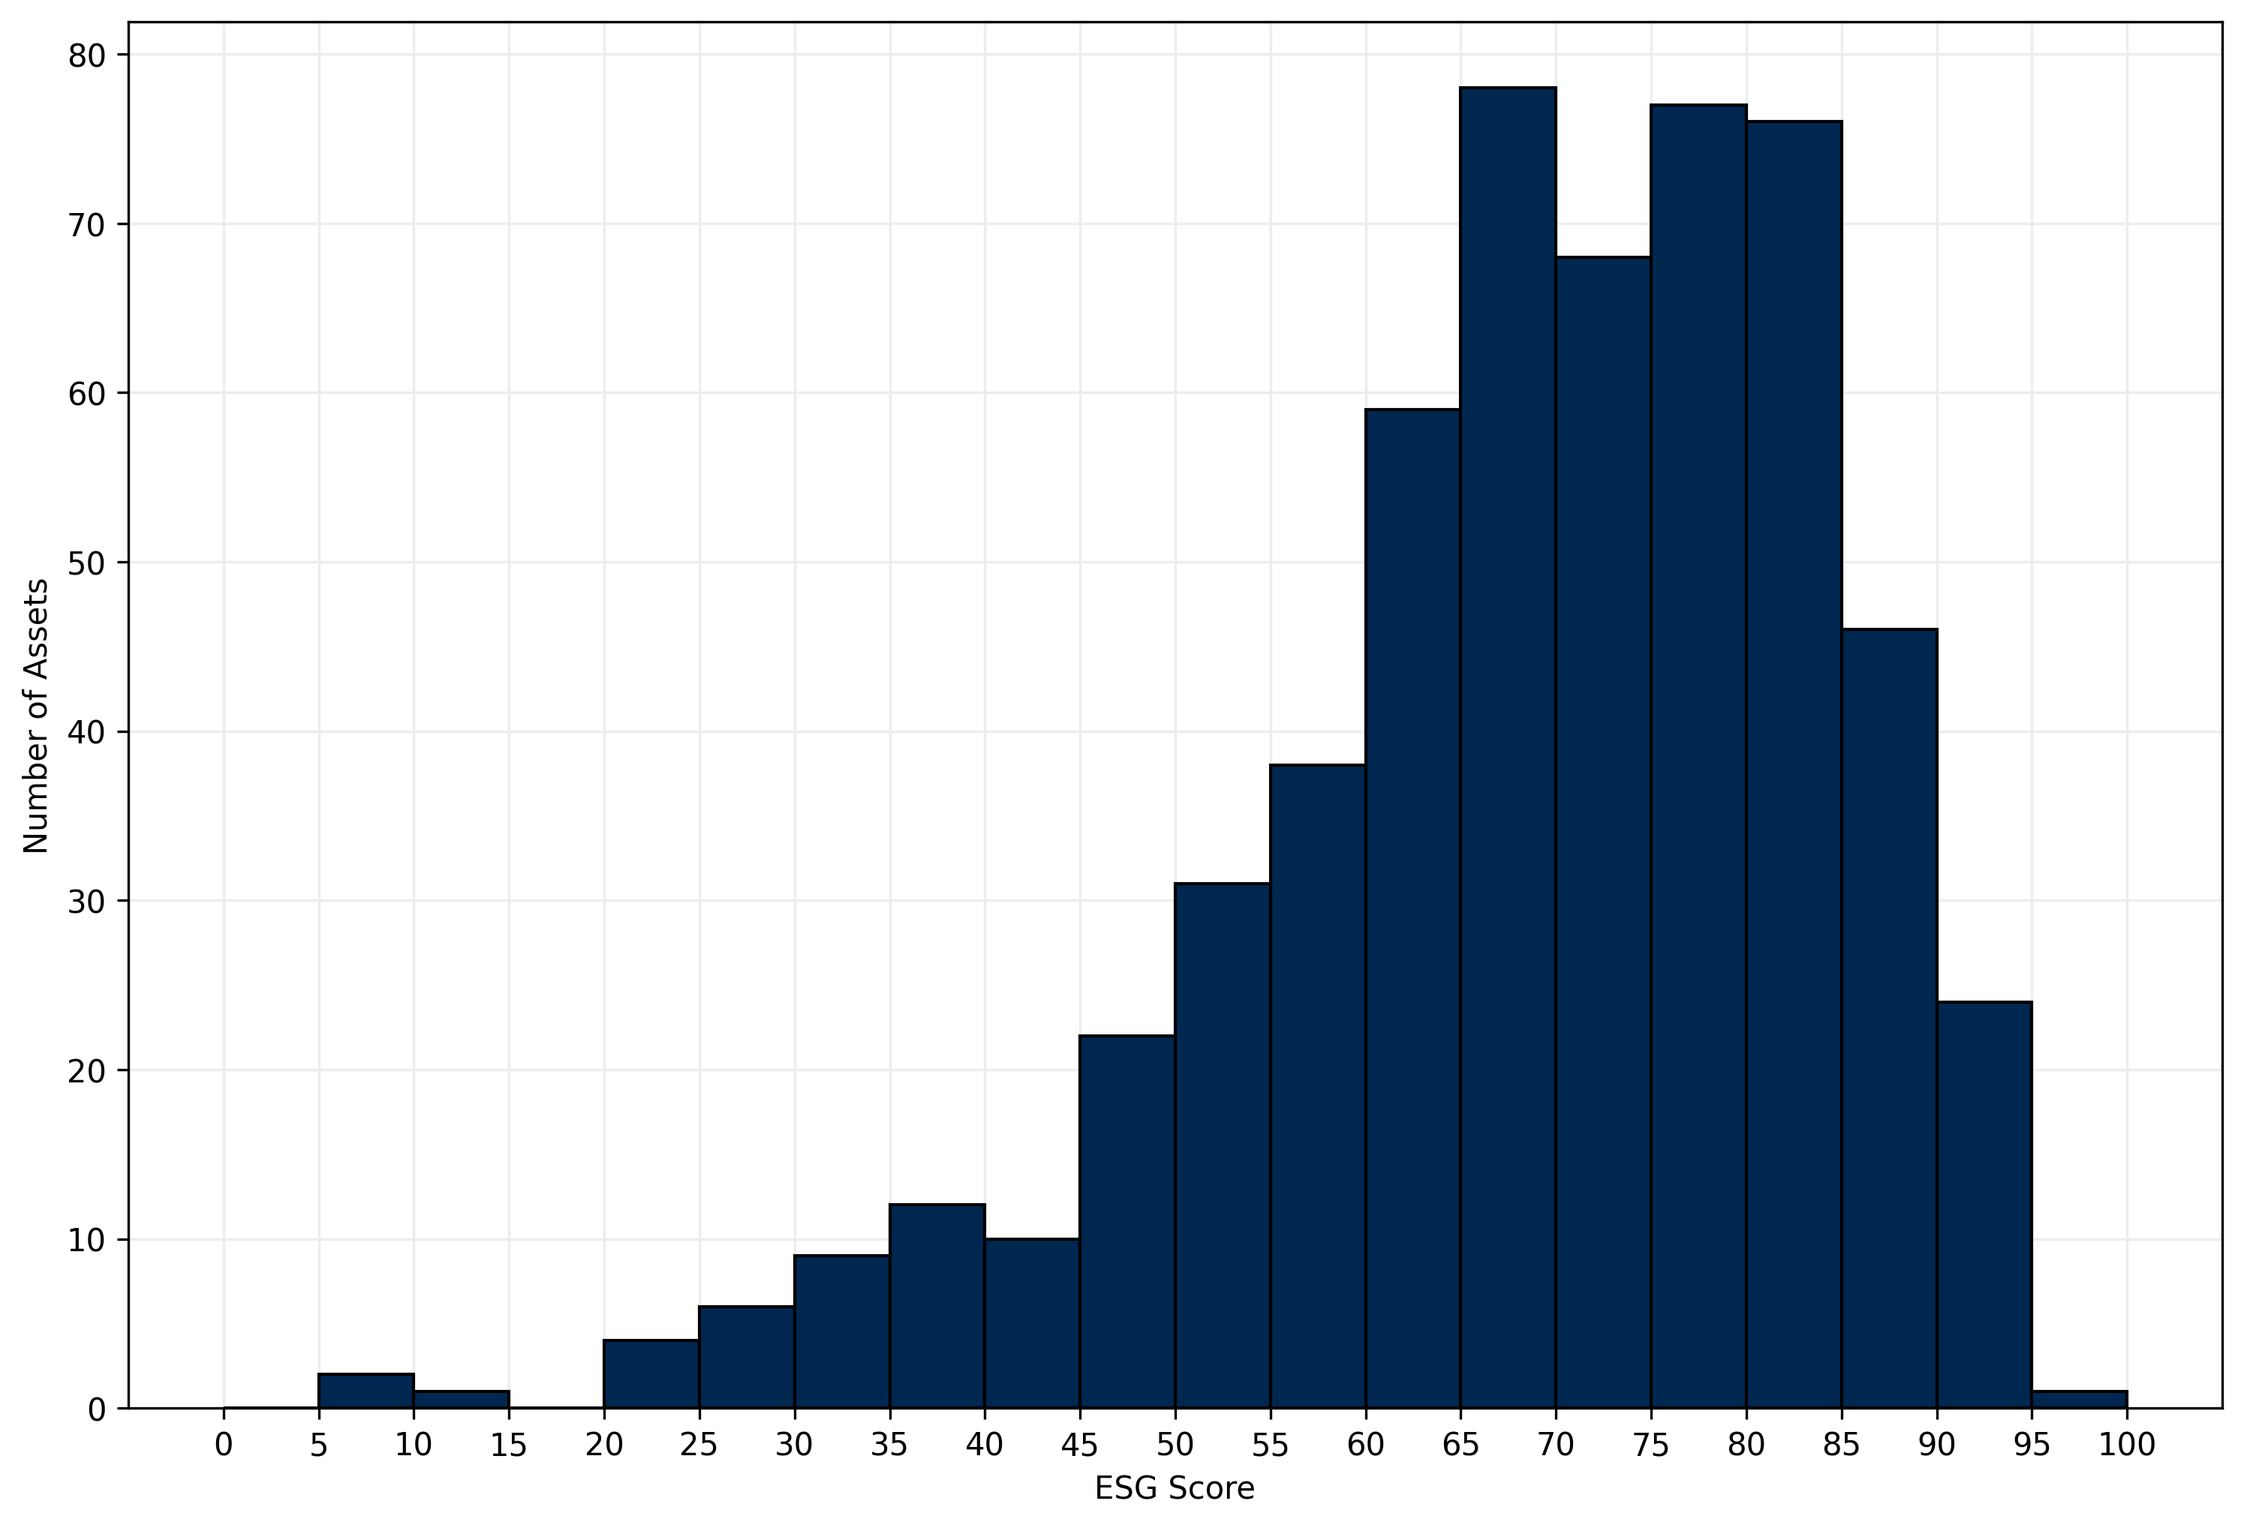
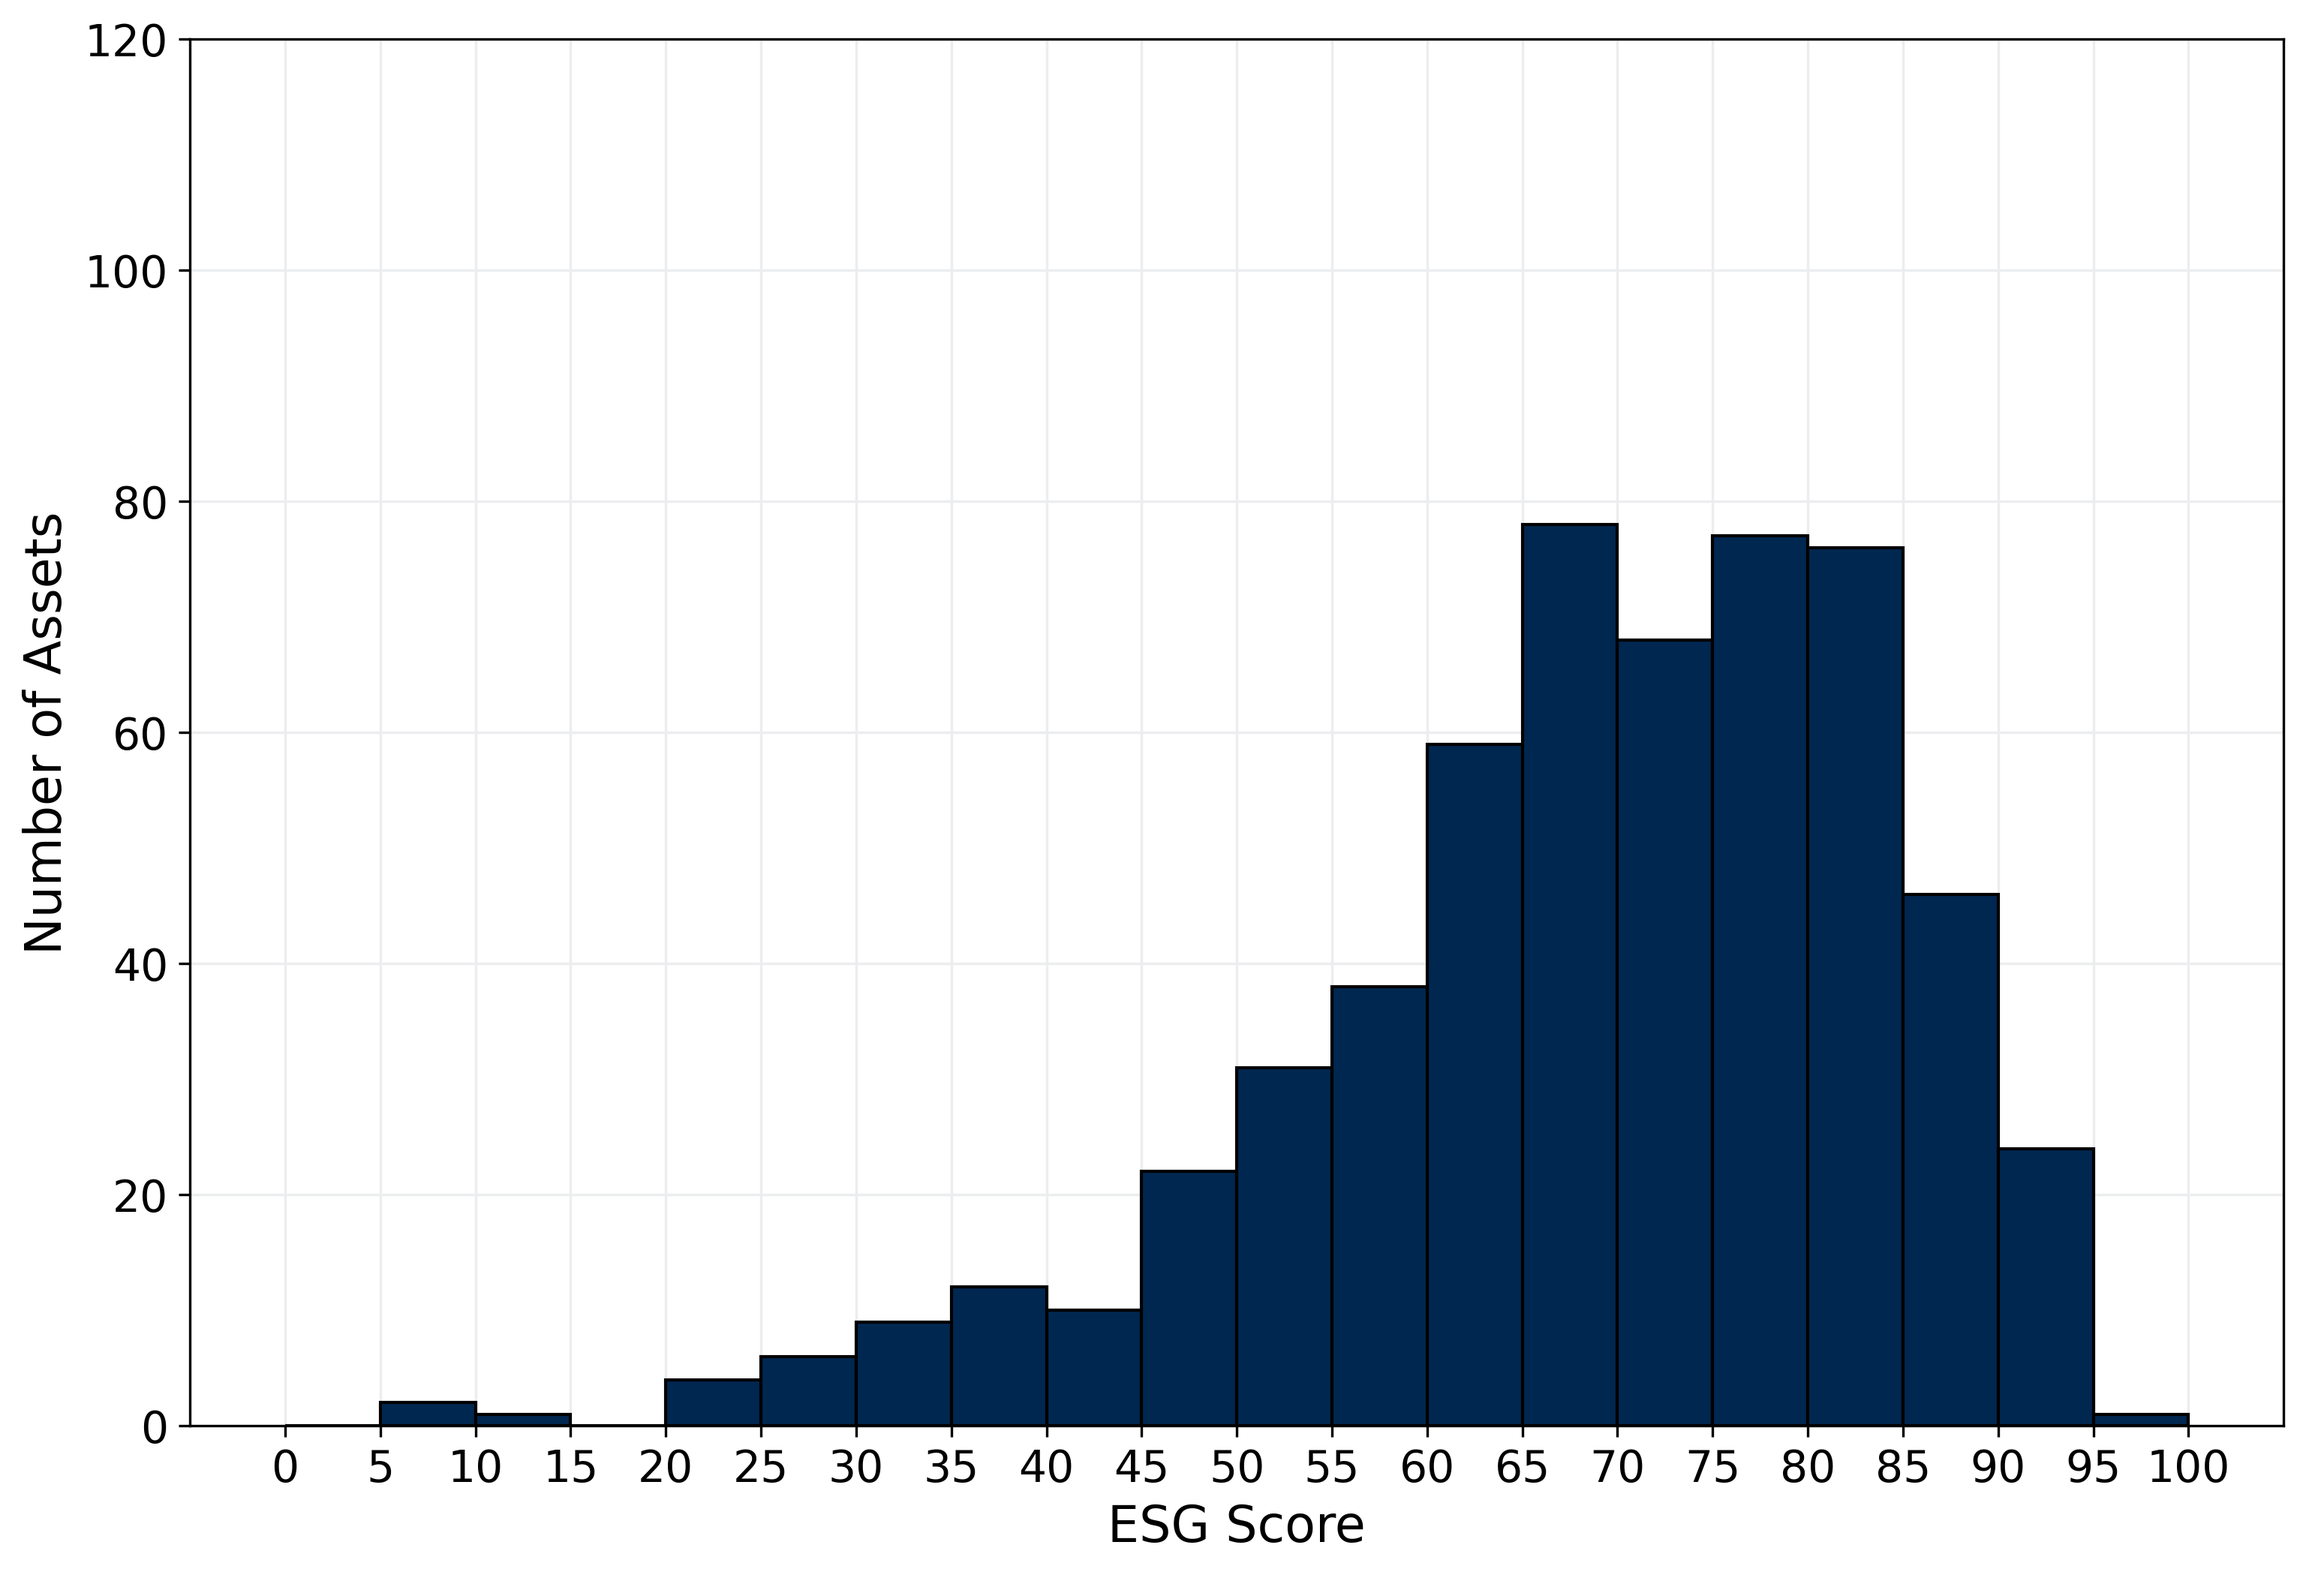
* Add Status Quo

diff --git a/Final/analysis.py b/Final/analysis.py
@@ -20,6 +20,7 @@ from datetime import datetime
 from dateutil.relativedelta import relativedelta
 from concurrent.futures import ProcessPoolExecutor
 import statsmodels.api as sm
+from scipy.stats import norm
 
 class RunConfig:
     def __init__(self, universe: str, endDate: str, riskFreeRate2Y: float, riskFreeRate5Y: float):
@@ -181,9 +182,11 @@ def plot_esg_distribution(esg_df, freq):
         edgecolor="black"
     )
 
-    plt.xticks(np.arange(0, 105, 5))
-    plt.xlabel("ESG Score")
-    plt.ylabel("Number of Assets")
+    plt.xticks(np.arange(0, 105, 5), fontsize=14)
+    plt.ylim(0, 120)
+    plt.yticks(np.arange(0, 121, 20), fontsize=14)
+    plt.xlabel("ESG Score", fontsize=16)
+    plt.ylabel("Number of Assets", fontsize=16)
     plt.grid(True, color=grid_color)
 
     plt.grid(True)
@@ -229,6 +232,51 @@ def cov_matrix(prices: pd.DataFrame, freq: str):
     cov = returns.cov() * scale
 
     return cov
+
+def plot_return_distribution(returns, bins, freq):
+    grid_color = (236 / 255, 237 / 255, 239 / 255)
+    bar_color = (0 / 255, 39 / 255, 80 / 255)
+    norm_color = (245 / 255, 158 / 255, 0 / 255)
+
+    plt.figure(figsize=(12, 8))
+    plt.gca().set_axisbelow(True)
+
+    # Histogramm
+    plt.hist(returns, bins=bins, density=True, alpha=1, label="Return Distribution", color=bar_color)
+
+    # Mittelwert
+    mean = returns.mean()
+    plt.axvline(mean, linestyle="--", linewidth=2, label=f"Mean = {mean:.2%}")
+
+    # Normalverteilung
+    x = np.linspace(returns.min(), returns.max(), 500)
+    plt.plot(x, norm.pdf(x, mean, returns.std()), linewidth=2, label="Normal Distribution", color=norm_color)
+
+    # Titel & Labels
+    plt.xlabel("Return", fontsize=16)
+    plt.ylabel("Density", fontsize=16)
+
+    # Tick-Größe
+    plt.xticks(np.arange(-1.0, 1.01, 0.2), fontsize=14)
+    plt.ylim(0, 4)
+    plt.yticks(np.arange(0, 4, 0.5), fontsize=14)
+    plt.xticks(fontsize=14)
+    plt.yticks(fontsize=14)
+
+    # Legende oben links
+    plt.legend(loc="upper left", fontsize=14)
+
+    plt.grid(True, color=grid_color)
+    plt.tight_layout()
+    if freq == "W":
+        plt.savefig("Plots/03-Distribution2Y.png", dpi=300, bbox_inches='tight')
+    elif freq == "M":
+        plt.savefig("Plots/04-Distribution5Y.png", dpi=300, bbox_inches='tight')
+    else:
+        logging.error("Invalid freq")
+        exit(1)
+    plt.show()
+    plt.close()
 
 
 def efficient_frontiers(prices: pd.DataFrame, esg: pd.DataFrame, freq: str, portfolios: int):
@@ -342,9 +390,9 @@ def plot_frontiers(frontiers, freq):
 
     plt.show()
     if freq == "W":
-        plt.savefig("Plots/03-EffFrontier2Y.png", dpi=300, bbox_inches='tight')
+        plt.savefig("Plots/05-EffFrontier2Y.png", dpi=300, bbox_inches='tight')
     elif freq == "M":
-        plt.savefig("Plots/04-EffFrontier5Y.png", dpi=300, bbox_inches='tight')
+        plt.savefig("Plots/06-EffFrontier5Y.png", dpi=300, bbox_inches='tight')
     else:
         logging.error("Invalid freq")
         exit(1)
@@ -413,9 +461,9 @@ def capital_market_line(config: RunConfig, frontiers: dict, freq: str):
     plt.legend(loc="upper left")
     plt.grid(True)
     if freq == "W":
-        plt.savefig("Plots/05-CML2Y.png", dpi=300, bbox_inches='tight')
+        plt.savefig("Plots/07-CML2Y.png", dpi=300, bbox_inches='tight')
     elif freq == "M":
-        plt.savefig("Plots/06-CML5Y.png", dpi=300, bbox_inches='tight')
+        plt.savefig("Plots/08-CML5Y.png", dpi=300, bbox_inches='tight')
     else:
         logging.error("Invalid freq")
         exit(1)
@@ -502,9 +550,9 @@ def plot_regression_summary(model, freq):
     plt.axis('off')
     plt.tight_layout()
     if freq == "W":
-        plt.savefig("Plots/07-Regression2Y.png", dpi=300, bbox_inches='tight')
+        plt.savefig("Plots/09-Regression2Y.png", dpi=300, bbox_inches='tight')
     elif freq == "M":
-        plt.savefig("Plots/08-Regression5Y.png", dpi=300, bbox_inches='tight')
+        plt.savefig("Plots/10-Regression5Y.png", dpi=300, bbox_inches='tight')
     else:
         logging.error("Invalid freq")
         exit(1)
@@ -560,6 +608,8 @@ def main():
     plot_esg_distribution(clean_esg5Y, "M")
     returns2Y = expected_returns(clean_prices2Y, freq="W")
     returns5Y = expected_returns(clean_prices5Y, freq="M")
+    plot_return_distribution(returns2Y, 40, "W")
+    plot_return_distribution(returns5Y, 40, "M")
     cov_matrix2Y = cov_matrix(clean_prices2Y, freq="W")
     cov_matrix5Y = cov_matrix(clean_prices5Y, freq="M")
 
